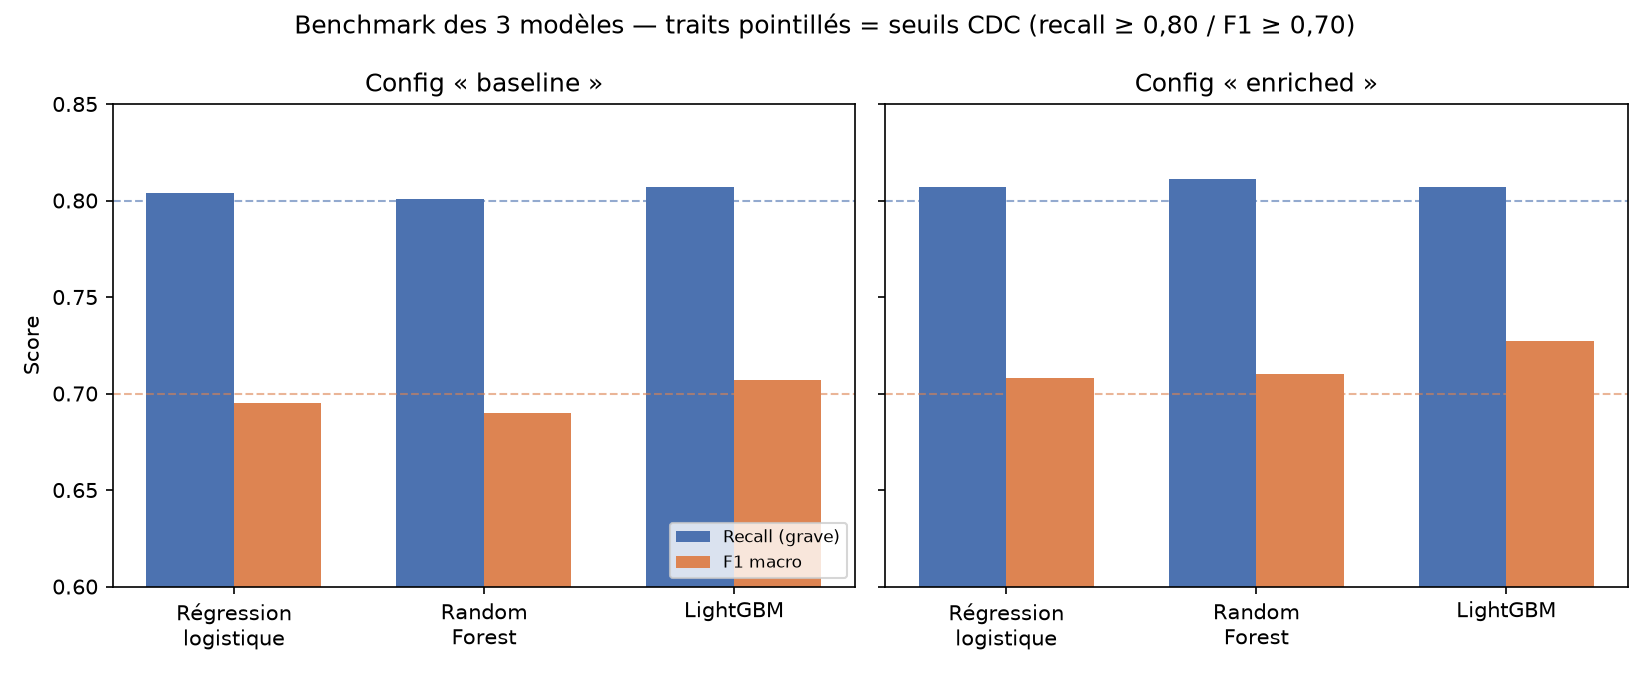
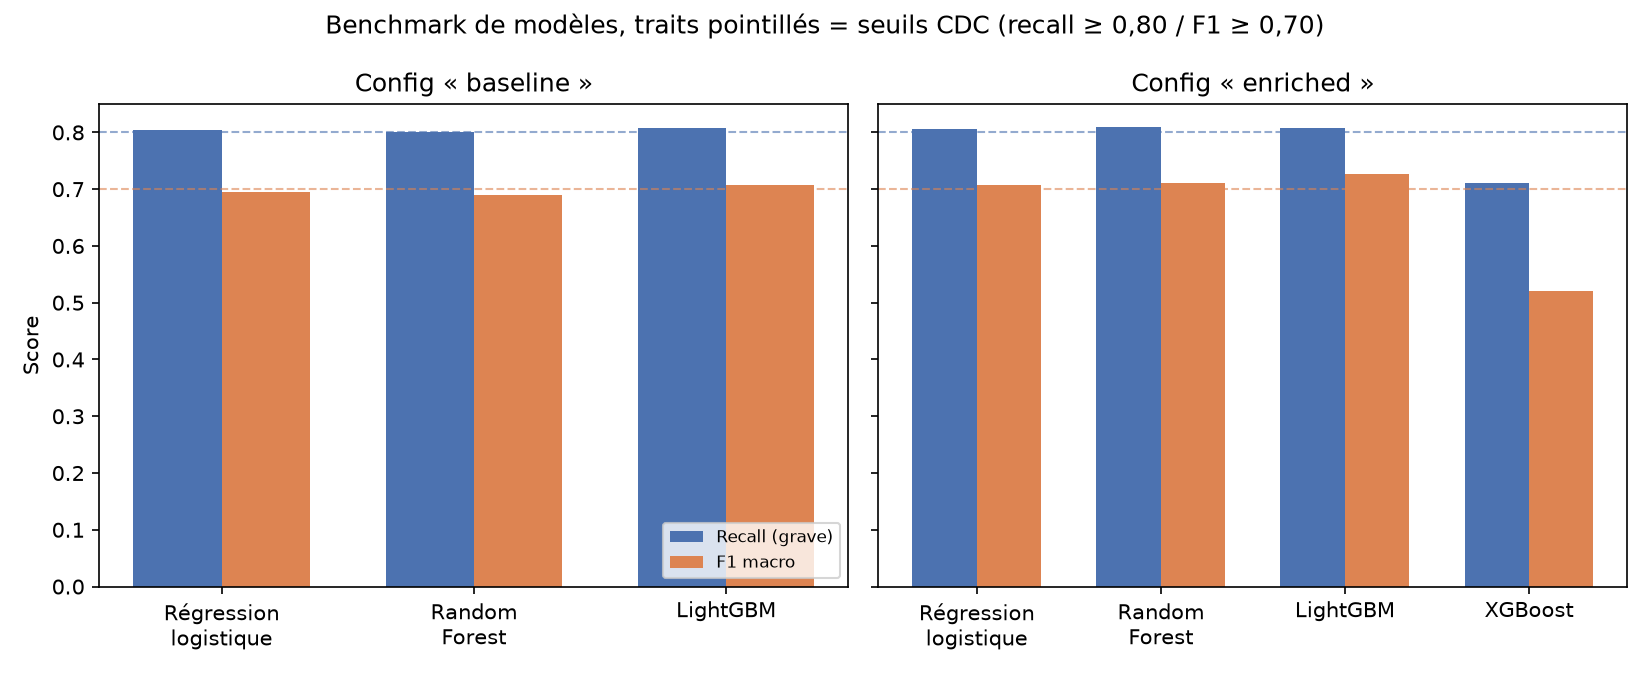
feat(training): ajouter XGBoost au benchmark de modèles
Sur demande explicite : XGBoost était jusque-là laissé de côté sur la
base d'une lecture du CDC ("LightGBM/XGBoost" cité comme une
alternative, pas deux modèles à tester). Ajouté pour une vraie
comparaison plutôt que de s'appuyer sur cette seule justification.

Verdict : recall 0,711 / F1 macro 0,520 sur le holdout 2023 (config
enriched), sous le seuil CDC de recall — LightGBM reste nettement le
meilleur modèle (recall 0,807 / F1 macro 0,727).

Deux bugs réels d'environnement trouvés et corrigés en testant :
- xgboost==3.4.1 plante nativement sur ce poste Windows (OSError:
  access violation dans XGProxyDMatrixCreate), dès le premier .fit(),
  y compris seul sans LightGBM chargé ; épinglé sur 3.0.5.
- scikit-learn==1.9.0 a retiré l'attribut de classe _estimator_type de
  ClassifierMixin (remplacé par le système de tags __sklearn_tags__),
  dont XGBClassifier.save_model() dépend encore (via
  mlflow.xgboost.log_model) ; contourné en le repositionnant
  explicitement après instanciation.

Garde-fou ajouté : ml/serving/model.py ne sait charger nativement que
LightGBM (mlflow.lightgbm.load_model, codé en dur). register_best
refuse désormais de promouvoir un modèle hors de SERVABLE_MODELS, même
s'il franchit les seuils CDC, pour qu'un futur réentraînement planifié
ne puisse pas casser le serving en production si un autre framework
l'emportait un jour.

docs/ml_training_results.md, AVANCEMENT_GRAVIA.md et CDC_GRAVIA.md
[…]

diff --git a/ml/training/benchmark.py b/ml/training/benchmark.py
@@ -1,11 +1,19 @@
 """Benchmark de modèles pour la sévérité d'accident, tracké dans MLflow.
 
-Compare trois familles de modèles, comme prévu par docs/Architecture_GRAVIA.md §3 (« Benchmark :
-régression logistique (baseline), Random Forest, LightGBM/XGBoost — modèle retenu selon les
-métriques ») sur les splits produits par `ml/features/gold_features.py`. XGBoost n'est pas ajouté
-en plus de LightGBM : le document cite « LightGBM/XGBoost » comme une alternative, pas les deux à
-la fois, et LightGBM est déjà la dépendance figée du projet, déjà validée dans les notebooks
-(reproduction à 0,001 près du baseline publié, cf. `ml/features/gold_features.py`).
+Compare quatre familles de modèles, comme prévu par docs/Architecture_GRAVIA.md §3 (« Benchmark :
+régression logistique (baseline), Random Forest, LightGBM/XGBoost, modèle retenu selon les
+métriques ») sur les splits produits par `ml/features/gold_features.py`. XGBoost a d'abord été
+laissé de côté (le document cite « LightGBM/XGBoost » comme une alternative, LightGBM était déjà
+la dépendance figée du projet, validée dans les notebooks à 0,001 près du baseline publié), puis
+ajouté sur demande explicite pour comparer réellement les deux plutôt que de s'appuyer sur cette
+justification seule.
+
+**Servabilité, pas seulement performance** : `ml/serving/model.py::load_staged_model` charge le
+modèle promu nativement via `mlflow.lightgbm.load_model` (nécessaire pour préserver le dtype
+`category` pandas, cf. limitation ci-dessous) — il ne sait pas charger un modèle XGBoost. Si
+XGBoost devait un jour battre LightGBM sur ce benchmark, `register_best` refuse de le promouvoir
+tant que `ml/serving` ne sait pas le charger (cf. `SERVABLE_MODELS`), pour ne pas casser le
+serving en production au premier réentraînement planifié qui tomberait sur ce cas.
 
 Encodage : LightGBM consomme les colonnes catégorielles nativement (`category` pandas, comme dans
 les notebooks) ; régression logistique et Random Forest n'ont pas de support catégoriel natif en
@@ -45,10 +53,12 @@ import lightgbm as lgb
 import mlflow
 import mlflow.lightgbm
 import mlflow.sklearn
+import mlflow.xgboost
 import numpy as np
 import pandas as pd
 import polars as pl
 import sqlalchemy as sa
+import xgboost as xgb
 from sklearn.compose import ColumnTransformer
 from sklearn.ensemble import RandomForestClassifier
 from sklearn.linear_model import LogisticRegression
@@ -69,7 +79,7 @@ from ml.features.gold_features import (
 
 RANDOM_STATE = 42
 N_ESTIMATORS = 300
-LEARNING_RATE = 0.05  # LightGBM uniquement (cf. notebooks/eda_baseline_baac.ipynb)
+LEARNING_RATE = 0.05  # LightGBM et XGBoost (cf. notebooks/eda_baseline_baac.ipynb)
 
 #: Seuils CDC (cf. CLAUDE.md, seuils et métriques).
 TARGET_RECALL = 0.80
@@ -78,6 +88,10 @@ MIN_F1_MACRO = 0.70
 EXPERIMENT_NAME = "gravia-severity-classifier"
 REGISTERED_MODEL_NAME = "gravia-severity-classifier"
 STAGING_ALIAS = "staging"
+
+#: Familles de modèles que `ml/serving/model.py::load_staged_model` sait charger nativement
+#: (cf. docstring module). `register_best` ne promeut jamais un modèle hors de cet ensemble.
+SERVABLE_MODELS = {"lightgbm"}
 
 FeatureSet = Literal["baseline", "enriched"]
 
@@ -194,6 +208,29 @@ def _fit_lightgbm(
     return model
 
 
+def _fit_xgboost(
+    x_train: pd.DataFrame, y_train: pd.Series, categorical: list[str], other: list[str]
+) -> xgb.XGBClassifier:
+    # scale_pos_weight = équivalent XGBoost de class_weight="balanced" (absent de son API) :
+    # ratio négatifs/positifs, pour rééquilibrer sans sur-échantillonner.
+    scale_pos_weight = (y_train == 0).sum() / (y_train == 1).sum()
+    model = xgb.XGBClassifier(
+        n_estimators=N_ESTIMATORS,
+        learning_rate=LEARNING_RATE,
+        scale_pos_weight=scale_pos_weight,
+        enable_categorical=True,
+        tree_method="hist",
+        random_state=RANDOM_STATE,
+    )
+    # scikit-learn 1.9 a retiré l'attribut de classe `_estimator_type` de `ClassifierMixin`
+    # (remplacé par le système de tags `__sklearn_tags__`) ; XGBoost 3.0.5 s'appuie encore
+    # dessus dans `save_model()` (`mlflow.xgboost.log_model` en dépend) et lève `TypeError:
+    # _estimator_type undefined` sans ce contournement, constaté en testant.
+    model._estimator_type = "classifier"
+    model.fit(x_train, y_train)
+    return model
+
+
 #: Un « builder » par famille de modèle : même signature `(x_train, y_train, categorical,
 #: other) -> estimateur ajusté`, exposant `.predict_proba` — assez uniforme pour un `evaluate_model`
 #: commun, sans forcer LightGBM dans le même `Pipeline` scikit-learn que les deux autres (son
@@ -202,12 +239,14 @@ MODEL_BUILDERS = {
     "logistic_regression": _fit_logistic_regression,
     "random_forest": _fit_random_forest,
     "lightgbm": _fit_lightgbm,
+    "xgboost": _fit_xgboost,
 }
 
 _MLFLOW_LOG_MODEL = {
     "logistic_regression": mlflow.sklearn.log_model,
     "random_forest": mlflow.sklearn.log_model,
     "lightgbm": mlflow.lightgbm.log_model,
+    "xgboost": mlflow.xgboost.log_model,
 }
 
 
@@ -352,13 +391,23 @@ def register_best(best: dict[str, Any]) -> str | None:
 
     Returns:
         Le numéro de version enregistrée, ou `None` si les seuils CDC ne sont pas franchis
-        (promotion bloquée, cf. CLAUDE.md — « Bloquer la promotion en production »).
+        (promotion bloquée, cf. CLAUDE.md — « Bloquer la promotion en production ») ou si
+        `ml/serving` ne sait pas charger cette famille de modèle (cf. `SERVABLE_MODELS`).
     """
     if not best["meets_gates"]:
         print(
             f"  [bloqué] {best['name']} : recall={best['recall']:.3f} / "
-            f"f1_macro={best['f1_macro']:.3f} — sous les seuils CDC (0.80 / 0.70), "
+            f"f1_macro={best['f1_macro']:.3f}, sous les seuils CDC (0.80 / 0.70), "
             "non enregistré."
+        )
+        return None
+
+    if best["name"] not in SERVABLE_MODELS:
+        print(
+            f"  [bloqué] {best['name']} franchit les seuils CDC mais ml/serving/model.py ne sait "
+            f"pas encore le charger nativement (seul {sorted(SERVABLE_MODELS)} l'est) : non "
+            "enregistré, pour ne pas casser le serving en production. Mettre à jour "
+            "ml/serving/model.py avant de promouvoir cette famille de modèle."
         )
         return None
 

diff --git a/docs/generate_result_charts.py b/docs/generate_result_charts.py
@@ -7,7 +7,7 @@ Deux sources de données différentes, assumées :
 - **Équité et dérive** : recalculées pour de vrai contre la stack dev (`ml.fairness.audit`,
   `ml.monitoring.drift`) — mêmes résultats que documentés, pas une resaisie manuelle qui pourrait
   diverger silencieusement des vrais calculs.
-- **Benchmark des 3 modèles** : chiffres repris tels quels de `docs/ml_training_results.md`
+- **Benchmark de modèles** : chiffres repris tels quels de `docs/ml_training_results.md`
   (déjà validés à 0,001 près contre `notebooks/eda_baseline_baac.ipynb`), pas recalculés ici —
   relancer `ml.training.benchmark` prend plusieurs minutes (Random Forest, 300 arbres sur
   273 226 lignes) pour produire des nombres déjà connus et publiés.
@@ -56,15 +56,18 @@ BENCHMARK_RESULTS: dict[str, dict[str, dict[str, float]]] = {
         "LightGBM": {"recall": 0.807, "f1_macro": 0.707},
     },
     "enriched": {
-        "Régression\nlogistique": {"recall": 0.807, "f1_macro": 0.708},
-        "Random\nForest": {"recall": 0.811, "f1_macro": 0.710},
+        "Régression\nlogistique": {"recall": 0.806, "f1_macro": 0.708},
+        "Random\nForest": {"recall": 0.810, "f1_macro": 0.711},
         "LightGBM": {"recall": 0.807, "f1_macro": 0.727},
+        # Ajouté le 2026-09-20, testé sur "enriched" uniquement (pas "baseline") : sous le seuil
+        # CDC de recall, cf. docs/ml_training_results.md, section "XGBoost : ajouté et écarté".
+        "XGBoost": {"recall": 0.711, "f1_macro": 0.520},
     },
 }
 
 
 def plot_benchmark_comparison(output_dir: Path) -> Path:
-    """Recall/F1 macro des 3 modèles, config baseline vs enriched, avec les seuils CDC."""
+    """Recall/F1 macro des modèles, config baseline vs enriched, avec les seuils CDC."""
     fig, axes = plt.subplots(1, 2, figsize=(11, 4.5), sharey=True)
 
     for ax, (config_name, results) in zip(axes, BENCHMARK_RESULTS.items(), strict=True):
@@ -81,13 +84,11 @@ def plot_benchmark_comparison(output_dir: Path) -> Path:
         ax.set_xticks(list(x))
         ax.set_xticklabels(models)
         ax.set_title(f"Config « {config_name} »")
-        ax.set_ylim(0.6, 0.85)
+        ax.set_ylim(0.0, 0.85)
 
     axes[0].set_ylabel("Score")
     axes[0].legend(loc="lower right", fontsize=8)
-    fig.suptitle(
-        "Benchmark des 3 modèles — traits pointillés = seuils CDC (recall ≥ 0,80 / F1 ≥ 0,70)"
-    )
+    fig.suptitle("Benchmark de modèles, traits pointillés = seuils CDC (recall ≥ 0,80 / F1 ≥ 0,70)")
     fig.tight_layout()
 
     path = output_dir / "benchmark_recall_f1.png"

diff --git a/tests/integration/test_benchmark_mlflow.py b/tests/integration/test_benchmark_mlflow.py
@@ -110,8 +110,11 @@ def test_run_benchmark_and_register_best_on_synthetic_data(isolated_mlflow_names
     y_test = test[LABEL_COLUMN].to_pandas().astype(int)
 
     mlflow.set_experiment(TEST_EXPERIMENT_NAME)
+    # "lightgbm", pas un autre membre de MODEL_BUILDERS : seule famille dans SERVABLE_MODELS,
+    # register_best rejette toute autre famille même si elle franchit les seuils CDC (cf.
+    # ml/serving/model.py, qui ne sait charger que LightGBM nativement).
     result = benchmark_module.evaluate_model(
-        "logistic_regression",
+        "lightgbm",
         "baseline",
         x_train,
         y_train,
@@ -124,7 +127,7 @@ def test_run_benchmark_and_register_best_on_synthetic_data(isolated_mlflow_names
     )
 
     try:
-        assert result["name"] == "logistic_regression"
+        assert result["name"] == "lightgbm"
         assert 0.0 <= result["recall"] <= 1.0
         assert 0.0 <= result["f1_macro"] <= 1.0
         assert result["run_id"]

diff --git a/tests/unit/test_benchmark.py b/tests/unit/test_benchmark.py
@@ -102,3 +102,12 @@ def test_register_best_returns_none_without_calling_mlflow_when_gates_not_met() 
     best = {"name": "logistic_regression", "recall": 0.75, "f1_macro": 0.60, "meets_gates": False}
 
     assert register_best(best) is None
+
+
+def test_register_best_returns_none_for_non_servable_model_even_if_gates_met() -> None:
+    """ml/serving/model.py ne sait charger que LightGBM nativement : promouvoir XGBoost (ou tout
+    autre membre de MODEL_BUILDERS hors SERVABLE_MODELS) casserait le serving, même si ce modèle
+    franchit les seuils CDC."""
+    best = {"name": "xgboost", "recall": 0.85, "f1_macro": 0.75, "meets_gates": True}
+
+    assert register_best(best) is None

diff --git a/docs/ml_training_results.md b/docs/ml_training_results.md
@@ -2,10 +2,12 @@
 
 Résultats du benchmark prévu par [Architecture_GRAVIA.md §3](Architecture_GRAVIA.md) (« Benchmark :
 régression logistique (baseline), Random Forest, LightGBM/XGBoost, modèle retenu selon les
-métriques »), produit par [`ml/training/benchmark.py`](../ml/training/benchmark.py). XGBoost n'a
-pas été ajouté à côté de LightGBM : le document cite les deux comme une alternative, pas comme
-deux modèles à tester en plus l'un de l'autre, et LightGBM est déjà la dépendance figée du projet,
-déjà validée dans les notebooks (cf. [notebooks/README.md](../notebooks/README.md)).
+métriques »), produit par [`ml/training/benchmark.py`](../ml/training/benchmark.py). XGBoost avait
+d'abord été laissé de côté (le document citait « LightGBM/XGBoost » comme une alternative, pas
+comme deux modèles à tester en plus l'un de l'autre, et LightGBM était déjà la dépendance figée du
+projet, validée dans les notebooks) puis ajouté sur demande explicite pour une vraie comparaison
+(cf. section « Configuration `"enriched"` » ci-dessous) : il ressort nettement moins bon que les
+trois autres candidats sur ce jeu de données.
 
 Protocole identique à la référence déjà publiée (cf. [CDC_GRAVIA.md §13.7](CDC_GRAVIA.md)) : train
 2019-2021, seuil de décision calibré sur validation 2022 (cible recall ≥ 0,80), évalué sur le
@@ -32,23 +34,55 @@ comparaison, rechargeable explicitement via `models:/gravia-severity-classifier/
 
 Flags véhicule/usager (`flag_2roues_motorise`/`flag_poids_lourd`/`flag_velo_edp`/`flag_pieton`),
 meilleure configuration déjà repérée dans `notebooks/eval_enrichissement_vs_seuil.ipynb` (config C :
-recall 0,805 / F1 macro 0,727 avec un seuil unique). Même protocole, mêmes 3 modèles :
+recall 0,805 / F1 macro 0,727 avec un seuil unique). Même protocole, désormais 4 modèles (XGBoost
+ajouté le 2026-09-20, cf. « XGBoost : ajouté et écarté » ci-dessous) :
 
 | Modèle | Recall grave | F1 macro | Seuil calibré | Seuils CDC |
 |---|---|---|---|---|
-| Régression logistique | 0,807 | 0,708 | 0,45 | Atteints |
-| Random Forest | 0,811 | 0,710 | 0,39 | Atteints |
+| Régression logistique | 0,806 | 0,708 | 0,45 | Atteints |
+| Random Forest | 0,810 | 0,711 | 0,39 | Atteints |
 | **LightGBM** | 0,807 | **0,727** | 0,47 | **Atteints** |
+| XGBoost | 0,711 | 0,520 | 0,43 | Non atteints (recall < 0,80) |
 
-→ Cette fois **les trois modèles franchissent les deux seuils CDC** (pas seulement LightGBM).
-LightGBM enriched reproduit à 0,000/0,002 près la config C du notebook (recall 0,805/F1 0,727) ;
-même conclusion qu'à l'époque : l'enrichissement seul (sans calibration par département) apporte
-un vrai gain de F1 macro (0,707 → 0,727) sans coût sur le recall. **Meilleur modèle du benchmark
+→ **LightGBM reste le meilleur modèle**, seul candidat au-dessus de 0,72 de F1 macro et le seul
+avec XGBoost à ne jamais franchir les deux seuils. L'enrichissement seul (sans calibration par
+département) apporte un vrai gain de F1 macro par rapport au baseline (0,707/0,708 → 0,727) sans
+coût sur le recall, pour les trois modèles qui le franchissent. **Meilleur modèle du benchmark
 toutes configurations confondues, promu à l'alias `staging`** (`gravia-severity-classifier` v2,
-2026-08-27, décision explicite de l'utilisateur). Rechargé après promotion et revérifié :
+2026-08-27, décision explicite de l'utilisateur ; réentraîné et re-promu en v4 le 2026-09-20 lors
+de l'ajout de XGBoost au comparatif, même architecture/hyperparamètres, poids légèrement
+différents). Rechargé après promotion et revérifié :
 `mlflow.lightgbm.load_model("models:/gravia-severity-classifier@staging")` prédit correctement.
 
-![Recall et F1 macro des 3 modèles, config baseline vs enriched](img/benchmark_recall_f1.png)
+### XGBoost : ajouté et écarté (2026-09-20)
+
+Ajouté au benchmark sur demande explicite, pour comparer réellement plutôt que de s'appuyer sur la
+justification « LightGBM/XGBoost cités comme une alternative » ci-dessus. Deux problèmes réels
+d'environnement trouvés et corrigés avant de pouvoir mesurer quoi que ce soit :
+
+1. **XGBoost 3.4.1 plante nativement sur ce poste Windows** : `OSError: exception: access
+   violation` dans `XGProxyDMatrixCreate`, dès le premier `.fit()`, y compris sur des données
+   purement numériques sans LightGBM chargé (donc pas un conflit entre les deux bibliothèques,
+   contrairement à l'hypothèse initiale). `xgboost==3.0.5` ne plante pas.
+2. **`scikit-learn==1.9.0` a retiré l'attribut de classe `_estimator_type`** de `ClassifierMixin`
+   (remplacé par le système de tags `__sklearn_tags__`), dont `XGBClassifier.save_model()` dépend
+   encore (`mlflow.xgboost.log_model` en dépend à son tour) ; sans contournement, `TypeError:
+   _estimator_type undefined`. Corrigé en le repositionnant explicitement après instanciation
+   (`model._estimator_type = "classifier"`, cf. `ml/training/benchmark.py::_fit_xgboost`).
+
+Une fois ces deux problèmes réglés, XGBoost s'entraîne et s'évalue normalement, mais son résultat
+est net : **recall 0,711, F1 macro 0,520**, sous le seuil CDC de recall (0,80) et loin du F1 macro
+des trois autres candidats. Pas de tuning d'hyperparamètres au-delà de ce que les trois autres
+modèles reçoivent (`n_estimators=300`, `learning_rate=0,05`, `scale_pos_weight` équivalent au
+`class_weight="balanced"` des autres) : un XGBoost plus poussé ferait probablement mieux, mais ce
+n'est pas l'objet de ce benchmark (comparaison à réglages par défaut équivalents, comme pour les
+trois autres). **`register_best` refuse de toute façon de promouvoir XGBoost même s'il franchissait
+les seuils** : `ml/serving/model.py::load_staged_model` charge le modèle promu nativement via
+`mlflow.lightgbm.load_model`, il ne sait pas charger un modèle XGBoost — `SERVABLE_MODELS` dans
+`ml/training/benchmark.py` bloque toute promotion hors de cet ensemble, pour ne pas casser le
+serving en production au prochain réentraînement planifié qui tomberait sur ce cas.
+
+![Recall et F1 macro des modèles, config baseline vs enriched](img/benchmark_recall_f1.png)
 
 *Généré par [`docs/generate_result_charts.py`](generate_result_charts.py) à partir des chiffres
 ci-dessus (`python -m docs.generate_result_charts`).*

diff --git a/docs/AVANCEMENT_GRAVIA.md b/docs/AVANCEMENT_GRAVIA.md
@@ -6,7 +6,18 @@
 > [CLAUDE.md](../CLAUDE.md) et les docs référencées ; ce fichier ne fait que pointer dessus et
 > dire *où on en est*.
 
-**Dernière mise à jour :** 2026-09-20. Les 11 scripts `.py` de `notebooks/` sont désormais de
+**Dernière mise à jour :** 2026-09-20. XGBoost ajouté au benchmark de modèles (`ml/training/
+benchmark.py`), sur demande explicite, pour comparer réellement plutôt que de s'appuyer sur la
+justification « alternative non testée » (cf. [ml_training_results.md](ml_training_results.md),
+section « XGBoost : ajouté et écarté »). Verdict : recall 0,711 / F1 macro 0,520, sous le seuil
+CDC, LightGBM reste le meilleur modèle. Deux problèmes réels d'environnement trouvés et corrigés
+au passage (XGBoost 3.4.1 plante nativement sur ce poste Windows ; `scikit-learn==1.9.0` a retiré
+un attribut dont XGBoost dépend encore pour la sauvegarde MLflow). Garde-fou ajouté par la même
+occasion : `register_best` refuse désormais de promouvoir un modèle que `ml/serving/model.py` ne
+sait pas charger nativement (`SERVABLE_MODELS`), pour qu'un futur réentraînement planifié ne
+puisse pas casser le serving en production si un autre framework l'emportait un jour.
+
+**Mise à jour précédente :** 2026-09-20. Les 11 scripts `.py` de `notebooks/` sont désormais de
 vrais notebooks Jupyter exécutés (`.ipynb`, kernel `gravia`), plus `notebooks/run_notebook.py`
 pour les rejouer de façon reproductible (cf. [notebooks/README.md](../notebooks/README.md)). En
 reproduisant les résultats déjà publiés, deux écarts doc/code ont été trouvés et corrigés : un
@@ -157,11 +168,12 @@ CDC sur les deux dépôts.
   passant par `Utf8` d'abord. `ml/` ajouté à la couverture de tests suivie (`pyproject.toml`).
 
 - **Entraînement / benchmark de modèles** ([ml/training/benchmark.py](../ml/training/benchmark.py),
-  résultats détaillés dans [docs/ml_training_results.md](ml_training_results.md)) : benchmark 3
+  résultats détaillés dans [docs/ml_training_results.md](ml_training_results.md)) : benchmark 4
   familles de modèles comme prévu par
   [Architecture_GRAVIA.md §3](Architecture_GRAVIA.md) (régression logistique, Random Forest,
-  LightGBM ; XGBoost non ajouté (le document cite « LightGBM/XGBoost » comme alternative, pas
-  les deux), chacune trackée comme un run MLflow (params, métriques, modèle). Sélection du
+  LightGBM, XGBoost, ce dernier ajouté le 2026-09-20 et écarté, recall sous le seuil CDC, cf.
+  ml_training_results.md), chacune trackée comme un run MLflow (params, métriques, modèle).
+  Sélection du
   meilleur modèle : priorité au recall (coût asymétrique, cf. CDC), F1 macro en second critère.
   Seul un modèle franchissant les deux seuils CDC (recall ≥ 0,80, F1 macro ≥ 0,70) est enregistré
   dans le registry MLflow, à l'alias `staging` (les stages Staging/Prod sont dépréciés depuis
@@ -465,7 +477,7 @@ ne reste sans réponse préparée.
 | Compétence | Couverture |
 |---|---|
 | C4.1 : Rédiger un cahier des charges pour la solution IA | [CDC_GRAVIA.md](CDC_GRAVIA.md) dans son ensemble |
-| C4.2 : Créer un algorithme IA adapté aux données et conforme au CDC | Benchmark 3 familles de modèles, LightGBM enriched retenu (recall 0,807/F1 0,727), section « Entraînement / benchmark de modèles » ; [ml_training_results.md](ml_training_results.md) |
+| C4.2 : Créer un algorithme IA adapté aux données et conforme au CDC | Benchmark 4 familles de modèles, LightGBM enriched retenu (recall 0,807/F1 0,727), section « Entraînement / benchmark de modèles » ; [ml_training_results.md](ml_training_results.md) |
 | C4.3 : Adapter l'infrastructure via construction d'API | `POST /v1/predict-severity` (`ml/serving/`), vérifié en conteneur réel, section « Serving » |
 | C4.4 : Concevoir des pipelines CI/CD pour automatiser le déploiement | CI lint+tests (`gravia/.github/workflows/ci.yml`) ; publication d'image (`publish-serving-image.yml`) ; déploiement Terraform+K8s (`gravia-mlops/.github/workflows/deploy.yml`) |
 | C4.5 : Développer des scripts de réentraînement pour automatiser le ML | `gravia/.github/workflows/retrain.yml`, section « Réentraînement planifié » |

diff --git a/docs/CDC_GRAVIA.md b/docs/CDC_GRAVIA.md
@@ -148,7 +148,7 @@ Cet arbitrage suit le même raisonnement déjà posé pour justifier Kafka en pr
 | EF-1 | Le système ingère les millésimes BAAC. Météo et route sont déjà portées par le BAAC (`atm`, `catr`/`vma`/`nbv`) ; l'enrichissement trafic externe a été évalué comme feature puis écarté (gain prédictif nul, §13.6) ; météo/géo externes n'ont jamais été engagées (§6.1). |
 | EF-2 | Le système nettoie, pseudonymise et structure les données (Bronze → Silver → Gold). |
 | EF-3 | Le modèle prédit la gravité (`grave` / `non grave`) à partir des caractéristiques d'un accident. |
-| EF-3b | **Plusieurs modèles sont comparés (benchmark)** : régression logistique (baseline), Random Forest, gradient boosting (LightGBM/XGBoost), et le **modèle final est retenu en fonction des résultats** (métriques du §11), avec suivi des expériences dans MLflow. **Réalisé avec LightGBM uniquement** : XGBoost n'a pas été ajouté à côté (le document cite les deux comme une alternative de la même famille gradient boosting, pas deux modèles à tester en plus l'un de l'autre, cf. `docs/ml_training_results.md`). |
+| EF-3b | **Plusieurs modèles sont comparés (benchmark)** : régression logistique (baseline), Random Forest, gradient boosting (LightGBM et XGBoost), et le **modèle final est retenu en fonction des résultats** (métriques du §11), avec suivi des expériences dans MLflow. **Réalisé avec les 4 familles** : XGBoost ajouté le 2026-09-20 pour une vraie comparaison plutôt que de s'appuyer sur « alternative de la même famille » ; recall 0,711/F1 macro 0,520, sous le seuil CDC, écarté (cf. `docs/ml_training_results.md`). LightGBM reste le modèle retenu. |
 | EF-4 | Le modèle renvoie un **score de confiance** et une **explication** (contributions des variables, SHAP). |
 | EF-5 | Une **API REST** expose la prédiction en temps réel (`POST /v1/predict-severity`). |
 | EF-6 | Le système réentraîne le modèle sur nouveau millésime ou sur détection de dérive. **Déclencheur réel implémenté** : `workflow_dispatch` manuel + filet de sécurité calendaire trimestriel (`gravia/.github/workflows/retrain.yml`) ; le déclenchement événementiel réel (nouveau millésime publié, dérive détectée par `ml/monitoring/drift.py`) reste manuel à ce jour, pas encore câblé automatiquement. |
